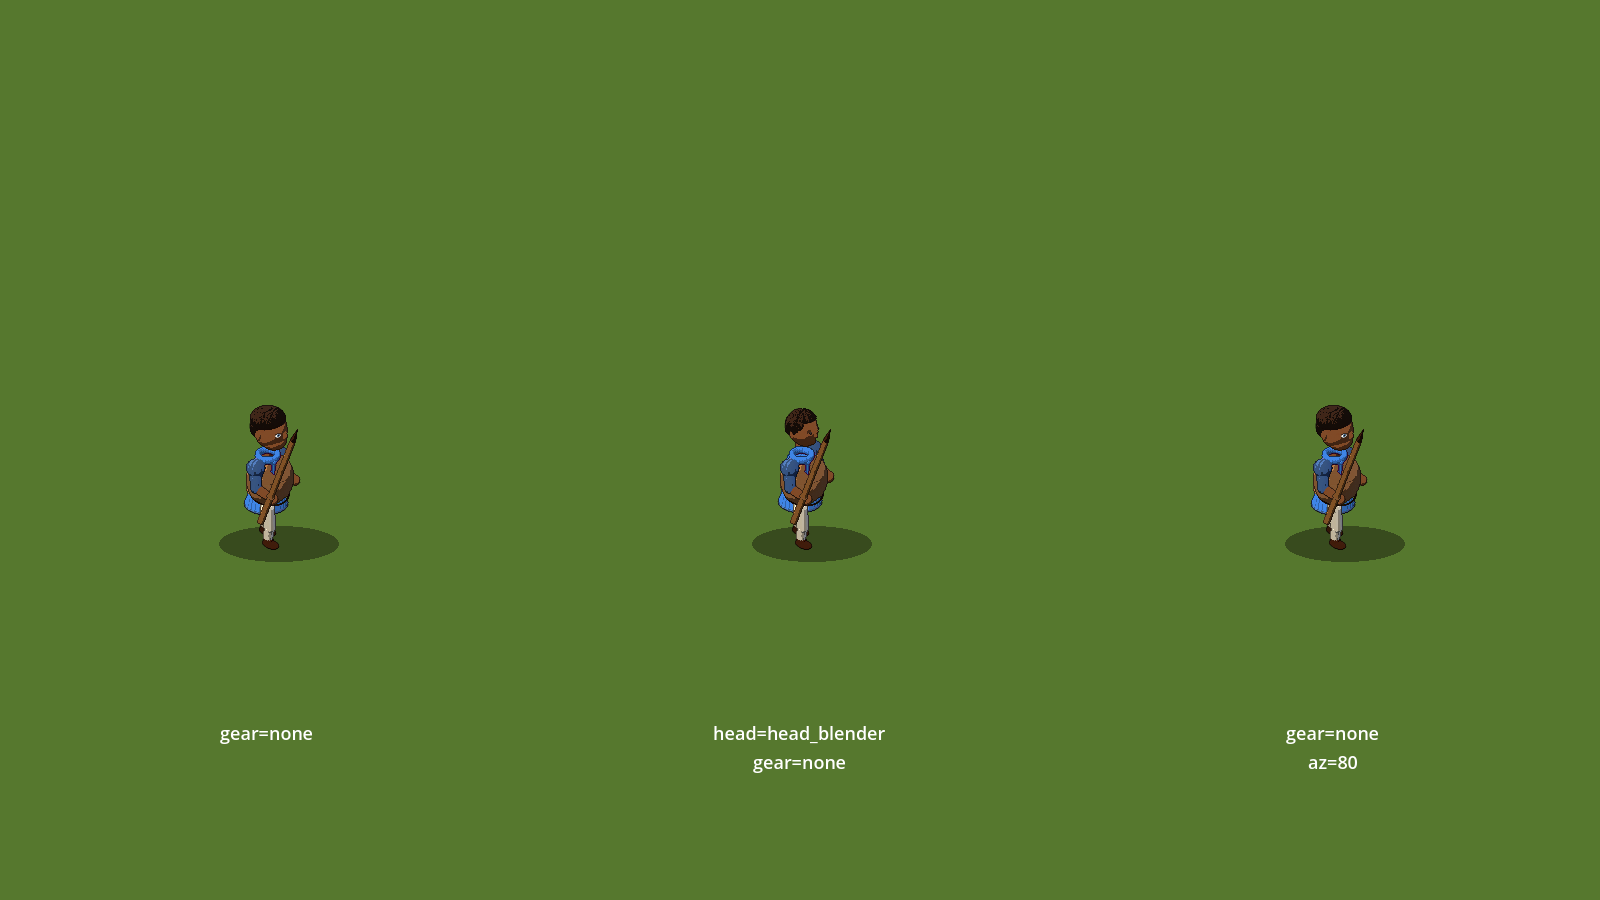
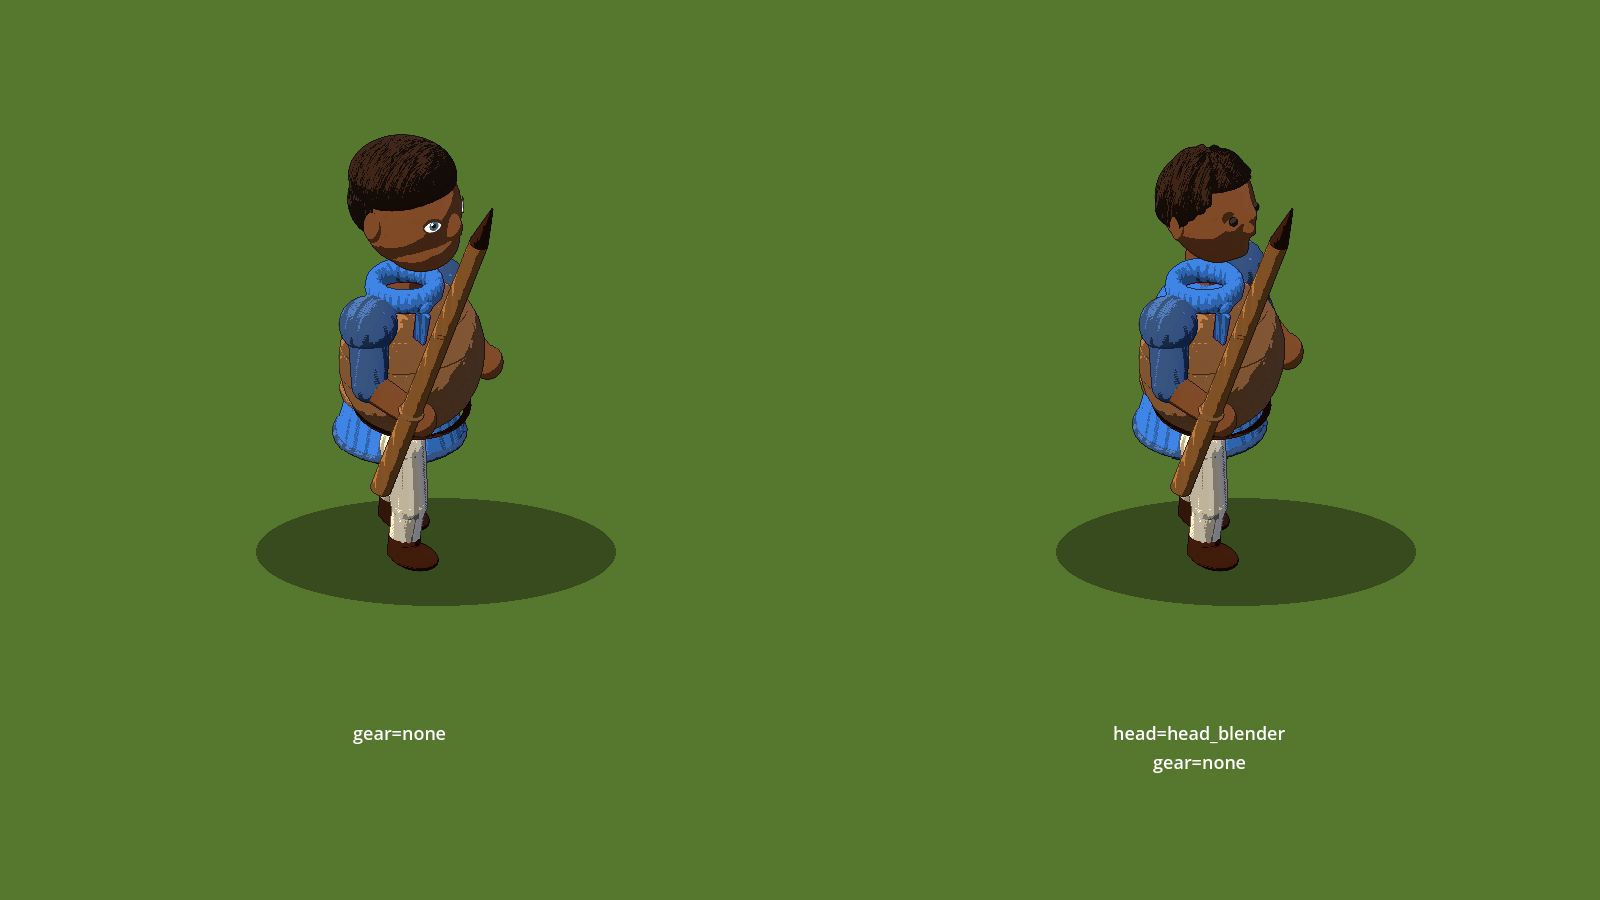
Humans: the Blender-sculpted head is the human head; human body armour fitted in 3D

diff --git a/archive/journal/2026-10-11-foundations.md b/archive/journal/2026-10-11-foundations.md
@@ -283,3 +283,11 @@ the wrong level, so "greek hoplites" still said "No idea what 'hoplites' means";
 Dominic's reaction to the RB3 sheet. The rats' Town Center now becomes the oil-drum colonnade
 when they reach age 3, through the new per-age building looks. The second Fable pass found the
 milestone's exit criterion met, with a short list of non-blocking items left open.
+
+### Humans: the first Blender part
+With Blender installed (Dominic's yes), a bpy script sculpts a human head by functions of position
+(brow ridge, eye sockets, cheekbones, nose, jaw and chin, ears, a hair cap) and exports a .glb that
+the part baker loads with our own materials swapped in. Close up it reads as a face where the old
+one was an egg with painted eyes; it's now the human head. The human body also got its armour fit,
+so the leather jerkin hugs the chest instead of wrapping the man in a brown egg. Next for humans:
+the body itself from Blender.
